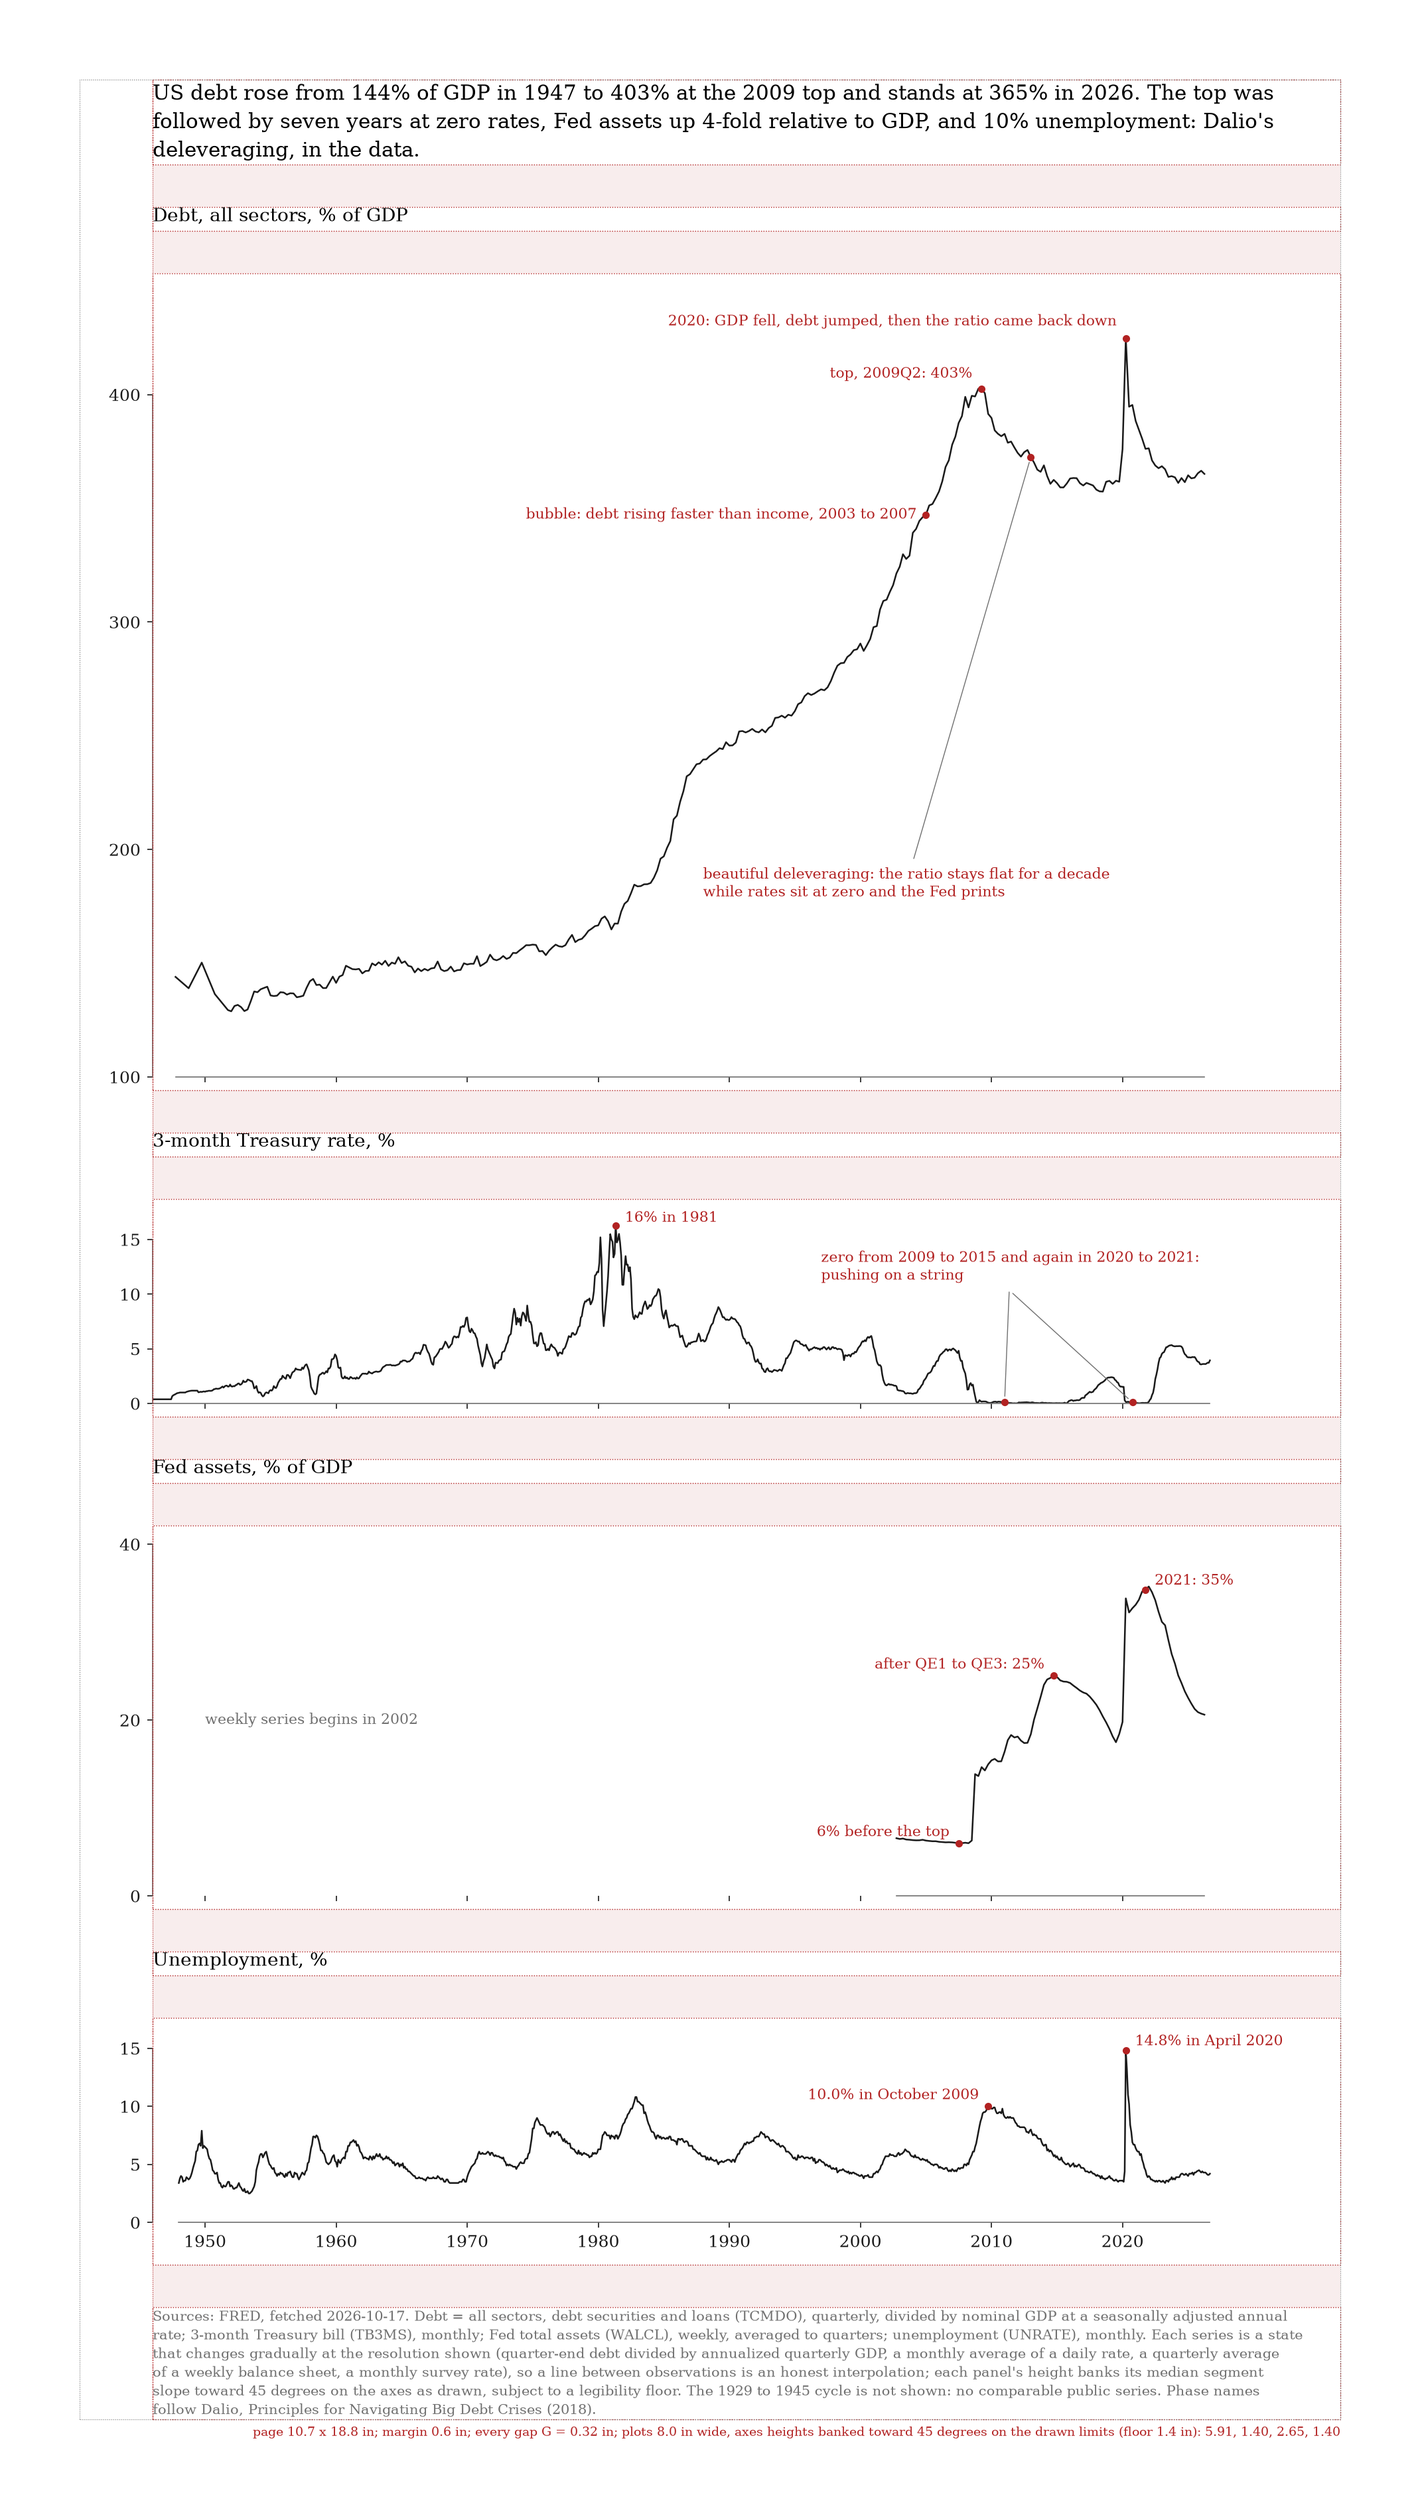
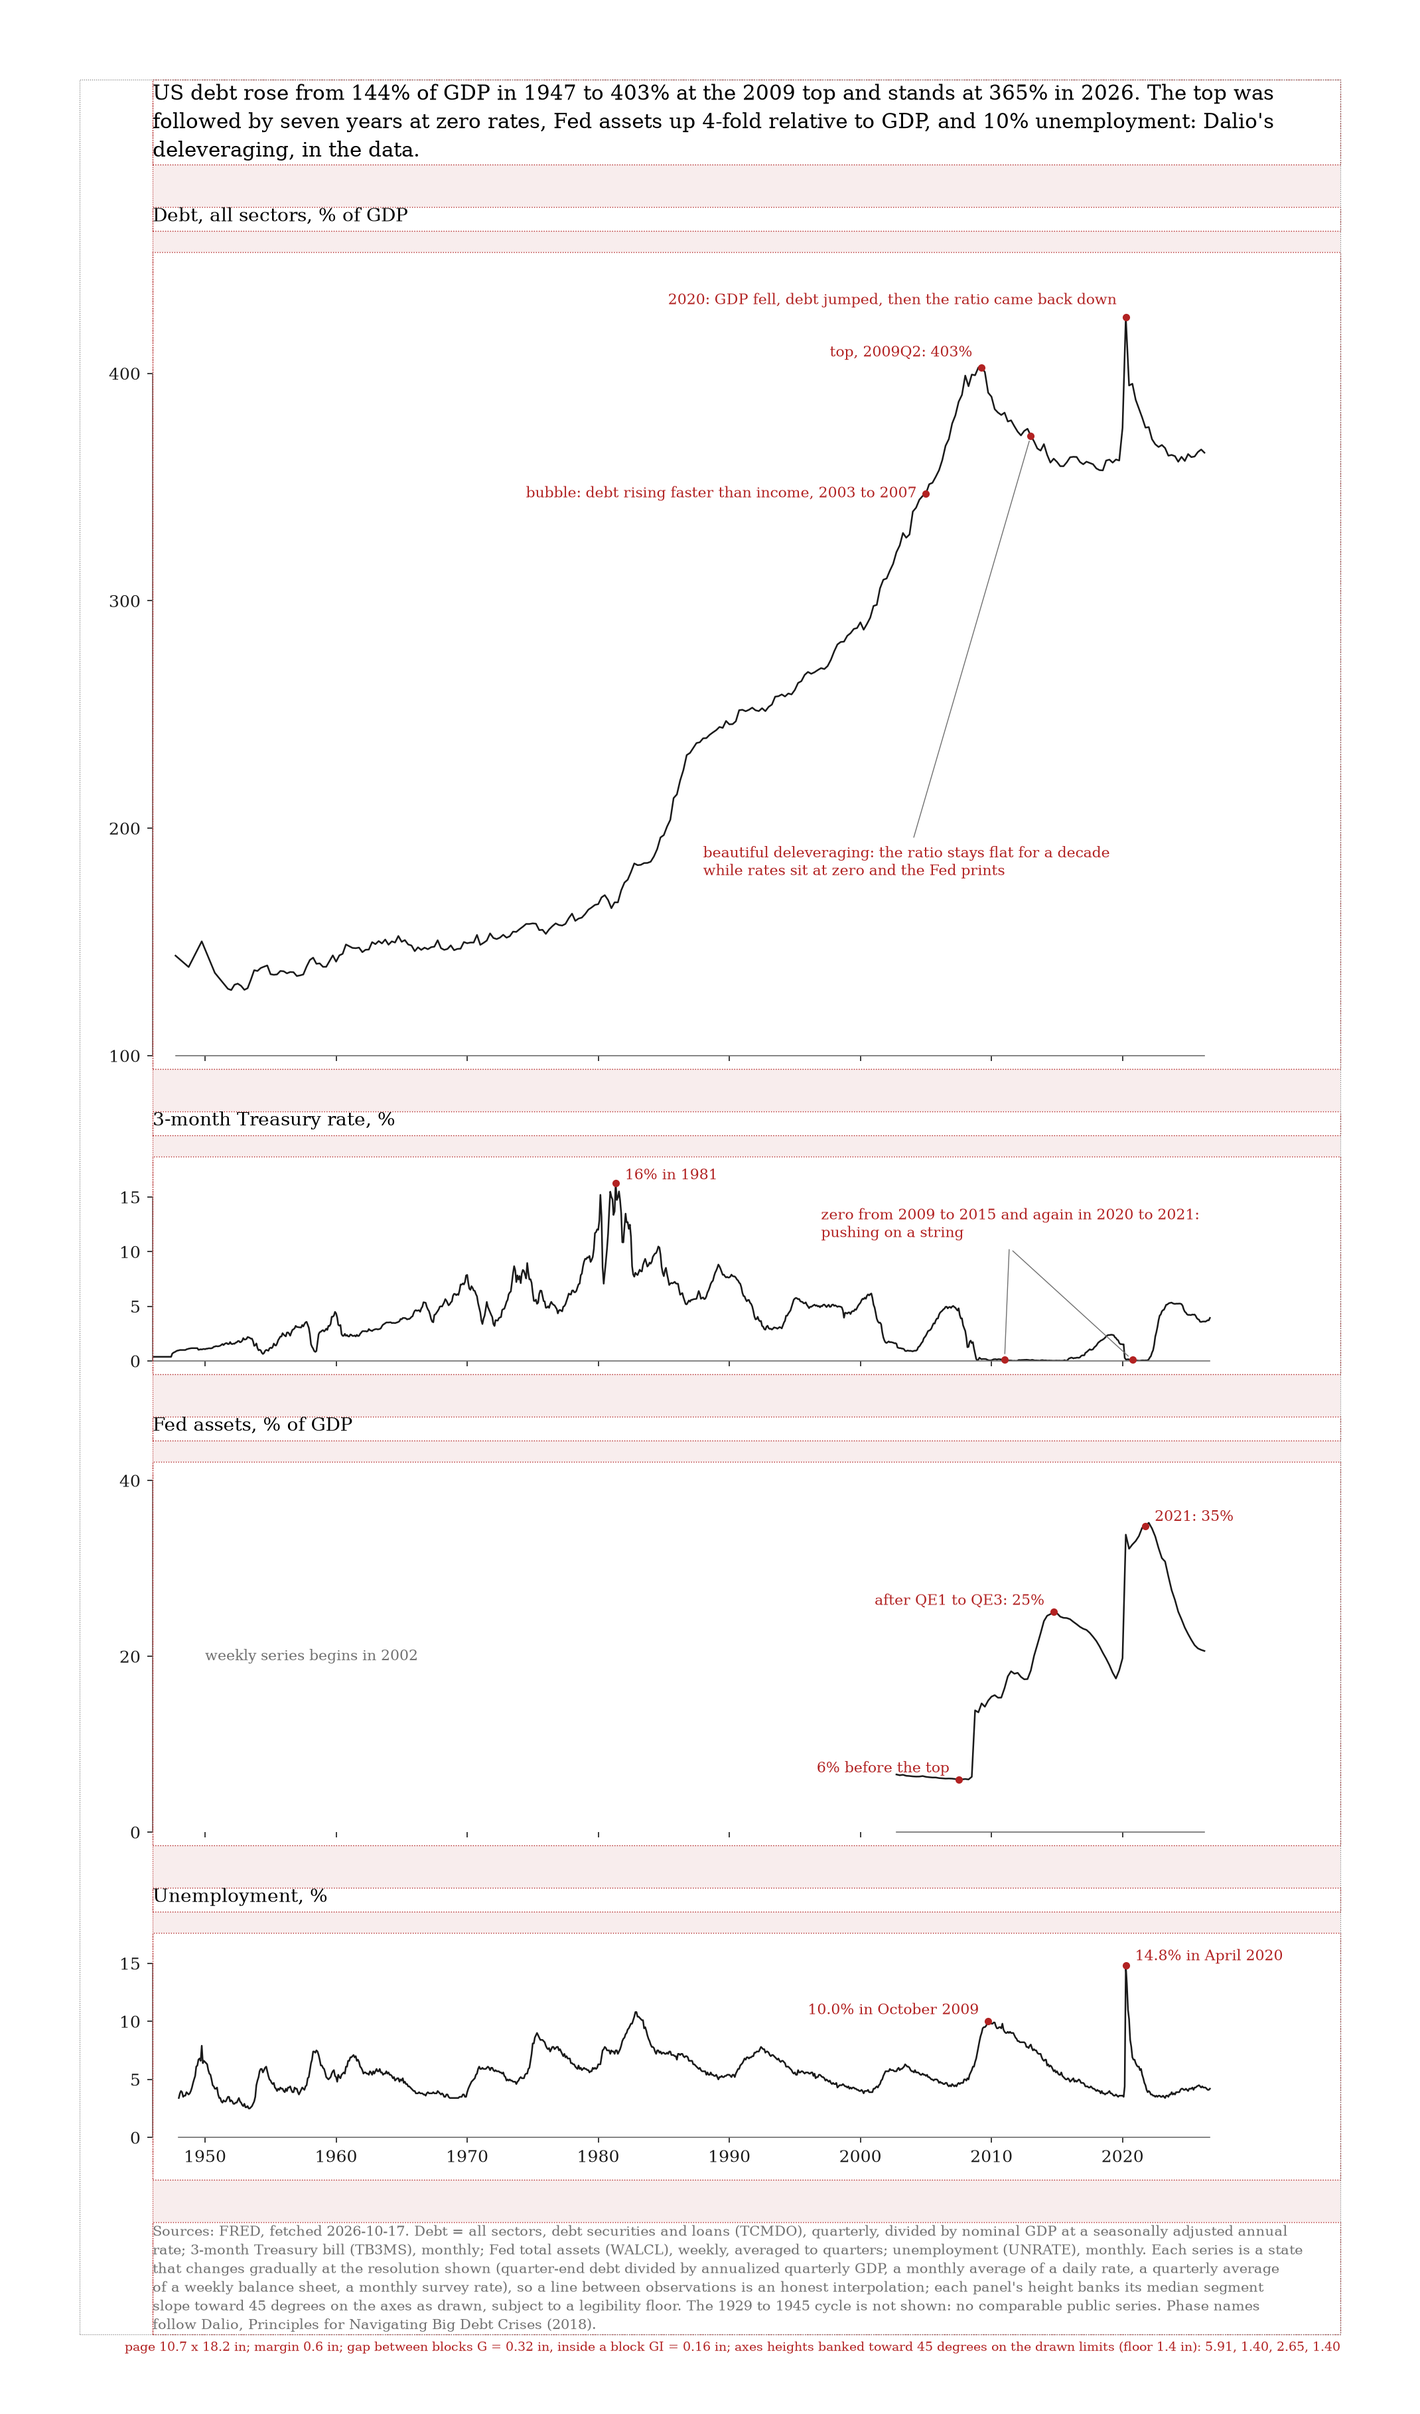
tufte 1.2.1: Dalio example placed by inner before outer
Title-to-plot gap 0.16 in, block gap 0.32 in, margin 0.6 in; page height follows; the --structure overlay names both gaps; README and SKILL notes updated, the example no longer predates the rule. Both PNGs regenerated. Adversarial review (skeptic): PASS.

diff --git a/examples/dalio/big_debt_cycle.py b/examples/dalio/big_debt_cycle.py
@@ -43,8 +43,8 @@ def banked_height(s, width, ylim, floor=1.4):
     return max(floor, width / np.median(np.abs(dy[keep] / dx[keep])))
 
 
-# ---- the page: one spacing unit G everywhere, one left edge L for every block ------------
-MARGIN, G = 0.6, 0.32          # inches: page margin; the gap between any two blocks
+# ---- the page: inner before outer (GI inside a block, G between blocks, MARGIN around), one left edge L -----
+MARGIN, G, GI = 0.6, 0.32, 0.16   # inches: page margin; the gap between blocks; the gap inside a block, a title to its plot
 HANG, RIGHT = 0.55, 0.95       # inches: room for hung y labels on the left, end labels on the right
 PW = 8.0                       # plot width, inches
 LINE = 9 / 72 * 1.35           # body line height, inches (9 pt type)
@@ -75,7 +75,7 @@ W = MARGIN + HANG + PW + RIGHT + MARGIN
 measure = PW + RIGHT                                   # text blocks run from L to the page's right margin
 head_lines = textwrap.wrap(headline, int(measure * 72 / (11 * 0.55)))
 src_lines = textwrap.wrap(source, int(measure * 72 / (7.5 * 0.55)))
-H = (MARGIN + len(head_lines) * HEAD + G + sum(TITLE + G + ABOVE + h + BELOW + G for h in heights) + LABELS
+H = (MARGIN + len(head_lines) * HEAD + G + sum(TITLE + GI + ABOVE + h + BELOW + G for h in heights) + LABELS
      + len(src_lines) * LINE * 7.5 / 9 + MARGIN)
 fig = plt.figure(figsize=(W, H), dpi=200)
 L = MARGIN + HANG
@@ -89,7 +89,7 @@ axs, blocks = [], [("headline", MARGIN, len(head_lines) * HEAD)]
 for i, ((title, s, yticks, ylim), h) in enumerate(zip(panels, heights)):
     fig.text(fx(L), fy(y), title, fontsize=10, va="top", ha="left")
     blocks.append(("title", y, TITLE))
-    y += TITLE + G
+    y += TITLE + GI
     ax = fig.add_axes([fx(L), fy(y + ABOVE + h), PW / W, h / H])   # the block holds the axes plus label room
     ax.plot(s, color=t.INK, lw=0.9)
     last = i == len(panels) - 1
@@ -117,15 +117,15 @@ c.text(T("1950-01-01"), 20, "weekly series begins in 2002", fontsize=8, color=t.
 t.note(d, T("2009-10-01"), at(unemp, "2009-10-01"), "%.1f%% in October 2009" % at(unemp, "2009-10-01"), side="left", dy=6)
 t.note(d, T("2020-04-01"), at(unemp, "2020-04-01"), "%.1f%% in April 2020" % at(unemp, "2020-04-01"), dy=5)
 
-if "--structure" in sys.argv:                        # show the page's blocks and the equal gaps between them
+if "--structure" in sys.argv:                        # show the page's blocks and the two gap sizes between them
     for kind, top, hgt in blocks:
         fig.add_artist(Rectangle((fx(L), fy(top + hgt)), measure / W, hgt / H, fc="none", ec=t.ACCENT, lw=0.5, ls=":"))
     for (k1, t1, h1), (k2, t2, h2) in zip(blocks, blocks[1:]):
         fig.add_artist(Rectangle((fx(L), fy(t2)), measure / W, (t2 - t1 - h1) / H, fc=t.ACCENT, alpha=0.08, lw=0))
     fig.add_artist(Rectangle((fx(MARGIN), fy(H - MARGIN)), (W - 2 * MARGIN) / W, (H - 2 * MARGIN) / H, fc="none", ec=t.GREY, lw=0.4, ls=":"))
     fig.add_artist(plt.Line2D([fx(L), fx(L)], [fy(H - MARGIN), fy(MARGIN)], color=t.ACCENT, lw=0.4, ls=":"))
-    fig.text(fx(W - MARGIN), fy(H - MARGIN + 0.05), f"page {W:.1f} x {H:.1f} in; margin {MARGIN} in; every gap G = {G} in; "
-             f"plots {PW} in wide, axes heights banked toward 45 degrees on the drawn limits (floor {1.4} in): " + ", ".join(f"{h:.2f}" for h in heights),
+    fig.text(fx(W - MARGIN), fy(H - MARGIN + 0.05), f"page {W:.1f} x {H:.1f} in; margin {MARGIN} in; gap between blocks G = {G} in, inside a block GI = {GI} in; "
+             f"axes heights banked toward 45 degrees on the drawn limits (floor 1.4 in): " + ", ".join(f"{h:.2f}" for h in heights),
              fontsize=7, color=t.ACCENT, ha="right", va="top")
 
 out = os.path.abspath("big-debt-cycle" + ("-structure" if "--structure" in sys.argv else "") + ".rendered.png")

diff --git a/skills/tufte/SKILL.md b/skills/tufte/SKILL.md
@@ -43,7 +43,7 @@ Banned without discussion: pie charts (and especially several of them), 3D, dual
 2. **Pick the form** from `references/data-ink.md` and `references/density-multiples.md`, after the state-or-flow test in `references/integrity.md`: a state that changes gradually → line; a state that jumps → step when the change times are known, dots when they are not; a flow (totals per period) → one mark per period, bars from zero, dots or a step, never a smoothed line; time series → line / sparkline / small multiples; two time points → table-graphic (slopegraph); distribution → quartile plot / dot-dash-plot; ranking → sorted dot plot; many series → small multiples, never a spaghetti plot; precise lookup, or up to about twenty numbers with no shape to show → table, laid out by `references/tables.md`.
 3. **Integrity pass** (`references/integrity.md`): compute the lie factor if any mark is scaled; set the aspect ratio from the data (for line charts bank the median absolute segment slope to 45 degrees, leaving out flat and vertical segments, pooling the segments of panels compared in the same units so they share one aspect and scale, and banking mixed-unit panels each on its own declared scale; for dots, bars and steps, and whenever the data do not care, Tufte's wider-than-tall default; a legibility floor); check baseline, context, and whether the data are ordered by the suspected cause.
 4. **Erase** (`references/data-ink.md`): remove frames, grids, fills, legends, tick clutter; try the range-frame; label directly.
-5. **Layer** (`references/analytical-design.md`): grey for structure and context, one strong color for the finding; annotate the finding in a sentence on the graphic. When several panels share a page, a layout may fix positions but never a panel's aspect. The positions follow one rule, inner before outer: a real page margin; the gap inside a block (a title to its plot, a caption to its figure) no larger than the gap between blocks, and visibly smaller where the eye must group, the margin no smaller than either, because the eye groups by the visible gaps and equal gaps everywhere make everything one family; one left edge for all page text and plot areas, with axis labels hung into the margin; a plot's block includes its own tick labels and any label that rises above its axes; the page is exported at its size, not cropped to its ink. This is a fixed-page composition: text is placed explicitly on the page and the export overrides the theme's tight crop, as `examples/dalio` does; the `headline` and `source` helpers belong to the other case, a single figure exported tight. In a stack the plots share one left edge; in a grid of small multiples each column shares one, page text sits on the first and each panel's title and caption on its own column. Each panel keeps its data-chosen aspect: the shape from step 3 (proportional scaling above the legibility floor is fine, compared panels together), and the page grows to fit, not the other way round. `examples/dalio` in the repository shows the edge, the blocks and the margin, and its `--structure` flag draws them; its title-to-plot gap still equals its block gap, which the inner-before-outer rule would shrink. Words on the graphic have rules of their own: the headline and the source line are wrapped to the figure's width so a long sentence never widens the export and shrinks the panels; a label sits beside its mark only on the side where the panel is empty, otherwise it goes into empty space with a thin grey leader, and its placement is the author's responsibility, so look at the render; y-limits cover both the data and the tick range, so nothing is clipped and every tick label prints. `scripts/tufte_mpl.py` has `headline`, `source`, `note`, `callout`, `frame` for exactly this.
+5. **Layer** (`references/analytical-design.md`): grey for structure and context, one strong color for the finding; annotate the finding in a sentence on the graphic. When several panels share a page, a layout may fix positions but never a panel's aspect. The positions follow one rule, inner before outer: a real page margin; the gap inside a block (a title to its plot, a caption to its figure) no larger than the gap between blocks, and visibly smaller where the eye must group, the margin no smaller than either, because the eye groups by the visible gaps and equal gaps everywhere make everything one family; one left edge for all page text and plot areas, with axis labels hung into the margin; a plot's block includes its own tick labels and any label that rises above its axes; the page is exported at its size, not cropped to its ink. This is a fixed-page composition: text is placed explicitly on the page and the export overrides the theme's tight crop, as `examples/dalio` does; the `headline` and `source` helpers belong to the other case, a single figure exported tight. In a stack the plots share one left edge; in a grid of small multiples each column shares one, page text sits on the first and each panel's title and caption on its own column. Each panel keeps its data-chosen aspect: the shape from step 3 (proportional scaling above the legibility floor is fine, compared panels together), and the page grows to fit, not the other way round. `examples/dalio` in the repository shows the rule (a title half a block gap from its plot, the margin about twice the block gap), and its `--structure` flag draws the blocks and both gap sizes. Words on the graphic have rules of their own: the headline and the source line are wrapped to the figure's width so a long sentence never widens the export and shrinks the panels; a label sits beside its mark only on the side where the panel is empty, otherwise it goes into empty space with a thin grey leader, and its placement is the author's responsibility, so look at the render; y-limits cover both the data and the tick range, so nothing is clipped and every tick label prints. `scripts/tufte_mpl.py` has `headline`, `source`, `note`, `callout`, `frame` for exactly this.
 6. **Verify with scripts.** Always through `uv run --locked` with the quoted path (the scripts ship lockfiles):
    ```
    uv run --locked "${CLAUDE_SKILL_DIR}/scripts/lie_factor.py" --data a b --graphic a2 b2

diff --git a/README.md b/README.md
@@ -45,7 +45,7 @@ Three modes, chosen from the request:
 
 ## Example
 
-`examples/dalio/big_debt_cycle.py` draws four stacked panels from FRED (all-sector debt to GDP, 3-month Treasury rate, Fed assets to GDP, unemployment, 1947 to 2026) with Dalio's phases annotated on the curve. Each panel's height banks its median segment slope toward 45 degrees on its own scale, subject to a legibility floor; the page is placed on one left edge with its blocks and margin drawn by one rule, and `--structure` renders the same page with its blocks and gaps drawn (it writes `big-debt-cycle-structure.rendered.png`; the checked-in `big-debt-cycle-structure.png` is that output). Run it with `uv run --locked examples/dalio/big_debt_cycle.py`; it writes `big-debt-cycle.rendered.png` in the working directory, and the csv snapshot is included so it reproduces offline. The preview above is the pre-rendered copy.
+`examples/dalio/big_debt_cycle.py` draws four stacked panels from FRED (all-sector debt to GDP, 3-month Treasury rate, Fed assets to GDP, unemployment, 1947 to 2026) with Dalio's phases annotated on the curve. Each panel's height banks its median segment slope toward 45 degrees on its own scale, subject to a legibility floor; the page is placed by inner before outer (a title sits 0.16 in from its plot, blocks sit 0.32 in apart, the margin is 0.6 in) on one left edge, and `--structure` renders the same page with its blocks and gaps drawn (it writes `big-debt-cycle-structure.rendered.png`; the checked-in `big-debt-cycle-structure.png` is that output). Run it with `uv run --locked examples/dalio/big_debt_cycle.py`; it writes `big-debt-cycle.rendered.png` in the working directory, and the csv snapshot is included so it reproduces offline. The preview above is the pre-rendered copy.
 
 ## Sources and verification
 
@@ -68,7 +68,7 @@ Narrative arcs and slide storytelling (Knaflic), KPI tiles and gauges-versus-bul
 
 ## Known limits of `tufte_mpl.py`
 
-`slopegraph` assumes a linear y-axis and single-line names, and must be called last on its panel; in a grid, hide every slopegraph panel's axes before the first call. `headline` and `source` wrap by measuring the rendered text and may still overrun by a few pixels in unusual fonts. `note` and `callout` place text where you tell them; choosing empty space and checking the render is the author's job. The Dalio example predates the inner-before-outer rule: its title-to-plot gap equals its block gap, so it shows the edge, the blocks and the margin but not the spacing hierarchy.
+`slopegraph` assumes a linear y-axis and single-line names, and must be called last on its panel; in a grid, hide every slopegraph panel's axes before the first call. `headline` and `source` wrap by measuring the rendered text and may still overrun by a few pixels in unusual fonts. `note` and `callout` place text where you tell them; choosing empty space and checking the render is the author's job.
 
 ## License
 
